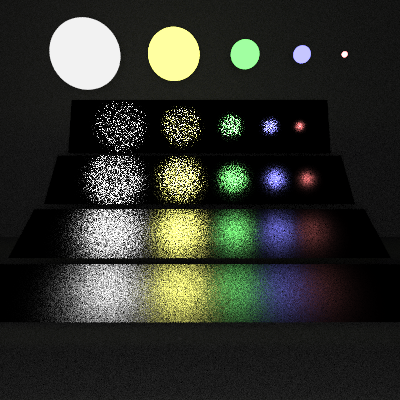
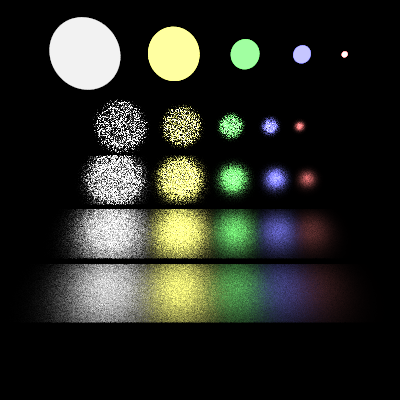
- 使用新版渲染器的渲染结果 - 微调内容 - 调整引用格式

diff --git a/sections/compare_mis_and_simple_figures.tex b/sections/compare_mis_and_simple_figures.tex
@@ -2,7 +2,7 @@
 
 MIS 在路径追踪中最常见的应用场景是结合光源采样和BRDF采样两种策略。
 
-在~\eqref{eq:mc-variance}的分析中，我们已经知道，$f(x)$在某些区域值较大时，如果采样分布$p(x)$在这些区域的概率较小，则会导致方差增大。
+在~\eqref{eq:mc-variance}的分析中，已经知道，$f(x)$在某些区域值较大时，如果采样分布$p(x)$在这些区域的概率较小，则会导致方差增大。
 在实际渲染过程中，$f(x)$较大的区域通常对应于光源方向附近（入射光照$L_i$较大）以及BRDF函数值较大的方向（例如高光反射方向）。
 因此，单一采样策略往往难以同时兼顾这两种情况，从而导致较大的方差。
 而MIS通过结合多种采样策略，可以更好地覆盖$f(x)$较大的区域，从而有效降低方差。
@@ -32,8 +32,10 @@ MIS 在路径追踪中最常见的应用场景是结合光源采样和BRDF采样
 	\caption{不同采样策略下的渲染结果对比（上：MIS，左下：光源采样，右下：BRDF采样）}
 	\label{fig:mis-vs-single-comparison-1}
 \end{figure}
-该图是对Veach论文\cite{Veach1995}中MIS效果的复现实验，整个场景有微弱的环境光照，和五个大小，颜色互异的球状光源，
-在下方是四面模糊度不同的长方形镜子。
+该图是对Veach论文\cite{Veach1995}中MIS效果的复现实验。
+场景的最上方是$5$个大小，颜色互异的球状光源，
+下方是四面模糊度不同的长方形镜面（从上倒下模糊度递增）。
+相机可以通过镜面反射看到光源（下方看到的$20$个亮斑），也可以直接看到光源（最上面看到的$5$个光源）。
 
 从图~\ref{fig:mis-vs-single-comparison-1}中可以明显看出，MIS策略的渲染结果噪点更少，质量更高。
 
@@ -49,19 +51,19 @@ MIS 在路径追踪中最常见的应用场景是结合光源采样和BRDF采样
 	\begin{subfigure}[b]{0.45\textwidth}
 		\centering
 		\includegraphics[width=\textwidth]{pictures/misvssingle/playground_mis.png}
-		\caption{MIS策略，每像素采样100次}
+		\caption{MIS策略，每像素采样300次}
 		\label{fig:mis-vs-single-comparison-playground-mis}
 	\end{subfigure} \\
 	\begin{subfigure}[b]{0.45\textwidth}
 		\centering
 		\includegraphics[width=\textwidth]{pictures/misvssingle/playground_light.png}
-		\caption{单一光源策略，每像素采样100次}
+		\caption{单一光源策略，每像素采样300次}
 		\label{fig:mis-vs-single-comparison-playground-light}
 	\end{subfigure}
 	\begin{subfigure}[b]{0.45\textwidth}
 		\centering
 		\includegraphics[width=\textwidth]{pictures/misvssingle/playground_material.png}
-		\caption{单一BRDF策略，每像素采样100次}
+		\caption{单一BRDF策略，每像素采样300次}
 		\label{fig:mis-vs-single-comparison-playground-material}
 	\end{subfigure}
 	\caption{不同采样策略下的渲染效率对比（上：MIS，左下：光源采样，右下：BRDF采样）}

diff --git a/sections/conclusion.tex b/sections/conclusion.tex
@@ -1,8 +1,17 @@
 \section{总结}
 
-本文介绍了蒙特卡洛积分的基本概念及其在图形学渲染中的应用，重点讨论了路径追踪技术及其核心组件BRDF的定义和作用。
-此外，还探讨了多重重要性采样（MIS）方法，分析了其无偏性和方差特性。
-通过理论分析和实际渲染效果的比较，展示了MIS在降低估计方差、提升渲染质量方面的显著优势。
+本文探讨了蒙特卡洛积分及其在计算机图形学路径追踪算法中的应用。
+从概率论的基础理论出发，详细阐述了蒙特卡洛积分的定义、无偏性证明及其方差特性。
+通过引入拉格朗日乘子法，从理论上推导出了最小化方差的最优采样概率分布，即采样概率密度函数应与被积函数的绝对值成正比。
 
-总的来说，蒙特卡洛积分及其相关技术在计算机图形学中发挥着重要作用，
-为实现高质量、高效率的渲染提供了坚实的理论基础。
+在路径追踪的具体实践中，分析了渲染方程的积分形式，并指出单一采样策略在面对复杂场景时的局限性。
+例如，对于光滑表面或强光源场景，单一的BRDF采样或光源采样往往难以同时保持低方差，导致渲染图像出现明显的噪点。
+为此，重点介绍了多重重要性采样（MIS）技术。
+通过构建加权组合的估计量，MIS 能够有效地结合多种采样策略的优势。
+通过严格的理论分析，证明了 MIS 估计量的无偏性，并推导得出其方差上界不高于任意单一采样策略的方差，从而在理论上保证了该方法的鲁棒性。
+
+通过基于 CPU 的路径追踪渲染器的实现与对比实验，直观地验证了上述理论分析。
+实验结果表明，相比于均匀采样或单一的余弦加权采样，逼近最优分布的采样策略能显著减少噪点。
+特别是在复杂光照条件下，MIS 技术展现出了卓越的性能，它能够在同等采样次数下大幅降低估计方差，提升渲染画面的质量与收敛速度。
+
+从理论推导到算法实现，再到实验验证，展示了概率论在计算机图形学中的重要地位与应用价值。

diff --git a/sections/mis.tex b/sections/mis.tex
@@ -1,20 +1,23 @@
 \section{多重重要性采样（MIS）}
 
 \subsection{简介}
+在上一节的末尾，展示了不同采样次数下的路径追踪渲染结果（见图~\ref{fig:sampling-comparison}）。
+但是即便采样次数增加到每像素1000次，渲染结果中仍然存在明显的噪点。
+
 在大多数情况下，蒙特卡洛积分中的被积函数的BRDF和$L_i(\omega_i)$项都是非常复杂的，难以直接找到最优分布进行采样。
 单一的采样策略在某些边缘情况下可能会导致估计方差过大（在前文对最优分布的分析中有阐述），呈现在渲染结果上即为噪点。
 为了解决这一问题，多重重要性采样（Multiple Importance Sampling, MIS）被提出——通过多种采样方式的结合，
 有效降低了估计的方差，在有限的运算量中，往往对渲染结果的质量有很大的提升\cite{PBRT4}。
 
 \subsection{核心思想}
-基于蒙特卡洛积分，我们要解决的问题仍然是估计：
+基于蒙特卡洛积分，要解决的问题仍然是估计：
 \begin{equation}
 	I = \int_\Omega f(x) \diff x.
 \end{equation}
 
-但是现在，我们有多种采样方式可供选择，假设我们有$m$种采样方式，概率分布分别为$p_i(x), i=1,2,\ldots,m$。
+但是现在，有多种采样方式可供选择，假设有$m$种采样方式，概率分布分别为$p_i(x), i=1,2,\ldots,m$。
 
-对于每一种采样方式，我们可以独立地进行采样，得到$n_i$个样本点$x_{i,1}, x_{i,2}, \ldots, x_{i,n_i}$。
+对于每一种采样方式，可以独立地进行采样，得到$n_i$个样本点$x_{i,1}, x_{i,2}, \ldots, x_{i,n_i}$。
 总的样本数为$N = \sum_{i=1}^m n_i$。
 
 定义权重函数为：
@@ -29,7 +32,7 @@
 	\label{eq:mis-sum-pdf}
 \end{equation}
 
-至此，我们可以构造多重重要性采样的估计量\cite{Veach1995}为：
+至此，可以构造多重重要性采样的估计量\cite{Veach1995}为：
 \begin{equation}
 	\hat{I}_\text{MIS} = \sum_{i=1}^m \frac{1}{n_i} \sum_{k=1}^{n_i} \frac{f(x_{i,k}) w_i(x_{i,k})}{p_i(x_{i,k})}.
 \end{equation}

diff --git a/sections/abstract.tex b/sections/abstract.tex
@@ -1,6 +1,6 @@
 \begin{abstract}
 
-在路径追踪中，通过辐射度量学，我们可以将光传输的过程建模为积分方程，对于复杂场景往往难以获得解析解。
+在路径追踪中，通过辐射度量学，可以将光传输的过程建模为积分方程，对于复杂场景往往难以获得解析解。
 蒙特卡洛积分作为一种数值积分方法，通过随机采样的方式对积分结果做无偏估计，广泛应用于路径追踪算法中以模拟全局光照效果。
 同时，不同的随机采样方式（不同的概率分布函数）会导致不同的方差，本文通过拉格朗日乘子法求解最优的概率分布函数。
 

diff --git a/sections/path_tracing.tex b/sections/path_tracing.tex
@@ -21,7 +21,7 @@
 同时，较大的方差会体现为图片上的“噪点”。
 
 \subsection{BRDF（双向反射分布函数）}
-基于辐射度量学，我们在物理世界上抽象出 BRDF，来描述光线的传播\cite{GAMES101}。
+基于辐射度量学，在物理世界上抽象出 BRDF，来描述光线的传播\cite{GAMES101}。
 
 BRDF。表示从某个微分的立体角接受的光照会如何映射到发出（反射）光照的方向和强度。
 用数学语言描述，对于位于$p$的有向面积微元上，定义双向反射分布函数：

diff --git a/sections/appendix.tex b/sections/appendix.tex
@@ -1,7 +1,7 @@
 \appendix
 
 \section{项目源码}
-本文涉及的所有算法和渲染的图像均由作者独立完成。
+本文涉及的所有算法和渲染的图像均由作者独立完成。论文中所有实验结果均可通过下面的源码仓库进行复现。
 \begin{itemize}
 	\item \textbf{项目源码仓库}：\href{https://github.com/Aiza-Lee/cpu-ray-tracing}{https://github.com/Aiza-Lee/cpu-ray-tracing}
 	\item \textbf{开发环境}: Ubuntu 24.04, C++23, CMake 3.28, vcpkg

diff --git a/sections/monte_carlo_integration.tex b/sections/monte_carlo_integration.tex
@@ -3,7 +3,7 @@
 \subsection{定义}
 蒙特卡洛积分是一种利用随机采样来估计积分值的数值方法。其基本思想是通过在积分区域内随机生成点，然后根据这些点的函数值来近似计算积分。\cite{FoCG}
 
-形式化地，设我们要计算如下积分：
+形式化地，设要计算如下积分：
 \begin{equation}
 	I = \int_{x\in\Omega} f(x) \, \diff x .
 \end{equation}

diff --git a/config.tex b/config.tex
@@ -20,6 +20,11 @@
 \usepackage{bm}
 \usepackage{mathrsfs}
 
+% 让公式、图片、表格按章节编号 (例如: (1.1), 图 2.1)
+\numberwithin{equation}{section}
+\numberwithin{figure}{section}
+\numberwithin{table}{section}
+
 % --- 引用管理 (推荐使用 natbib 替代 cite) ---
 \usepackage[numbers,sort&compress]{natbib} 
 
